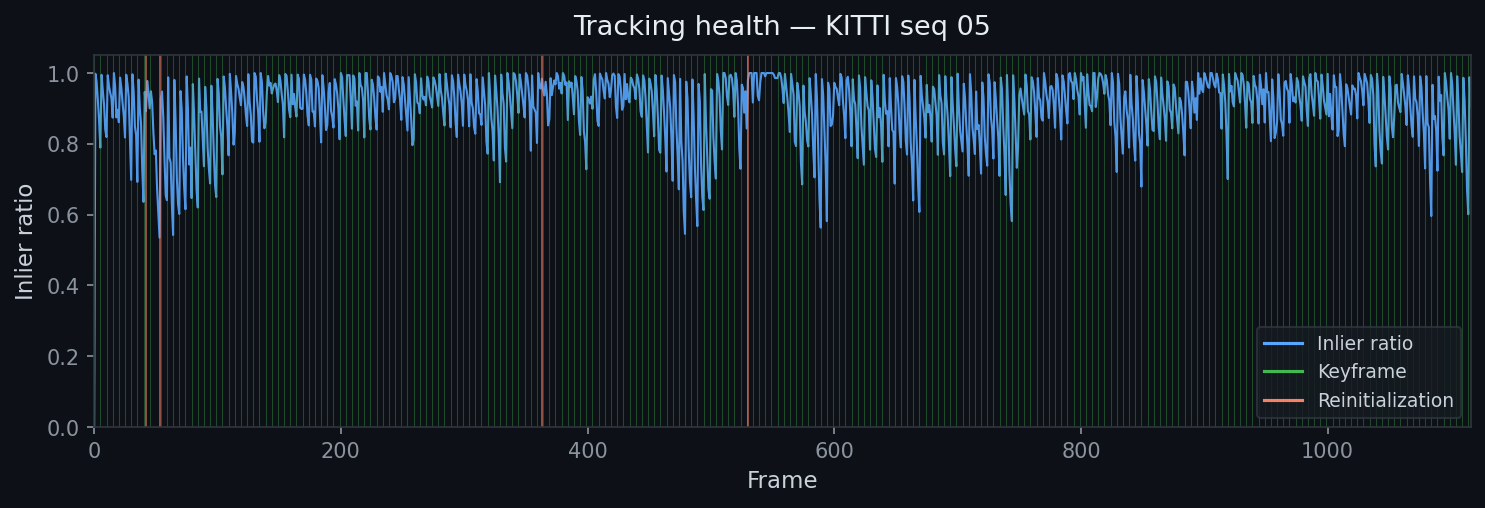
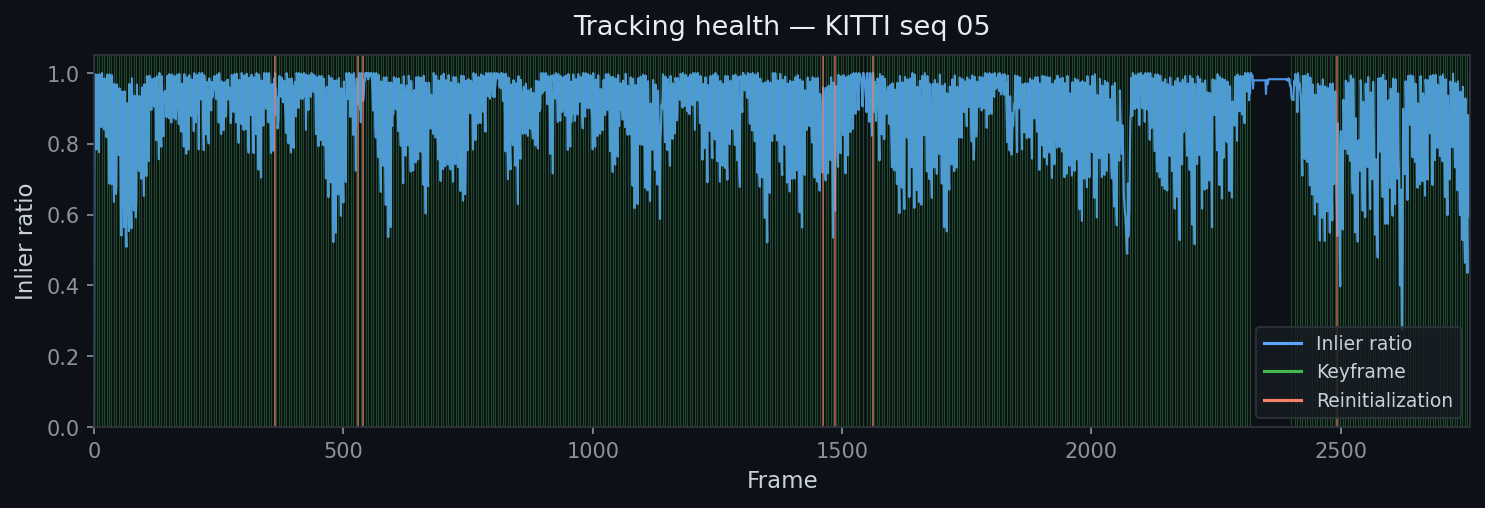
Update README: refresh assets, add metrics table, fix frame count and run commands

diff --git a/scripts/generate_vis.py b/scripts/generate_vis.py
@@ -148,7 +148,7 @@ def main():
     traj_path = Path(args.traj) if args.traj else repo_root / "results" / "traj" / f"{seq}.txt"
     gt_path = Path(args.kitti) / "poses" / f"{seq}.txt"
     debug_dir = repo_root / "results" / "debug"
-    stats_csv = debug_dir / f"{seq}_vo_stats.csv"
+    stats_csv = debug_dir / f"{traj_path.stem}_stats.csv"
     assets_dir = repo_root / "assets"
     assets_dir.mkdir(exist_ok=True)
 

diff --git a/README.md b/README.md
@@ -46,7 +46,14 @@ Each stage is a self-contained module (`include/svo/`, `src/`). The main loop in
 |:---:|:---:|
 | ![Tracking](assets/tracking.png) | ![Inlier ratio](assets/inlier_ratio.png) |
 
-Runs through all 1 117 frames of KITTI seq 05. Inlier ratio stays above 0.9 for the majority of the sequence. Trajectory follows ground truth with expected long-range drift — pure VO without loop closure or global optimization.
+Runs through all 2 761 frames of KITTI seq 05. Median inlier ratio 0.91. Trajectory follows ground truth with expected long-range drift — pure VO without loop closure or global optimization.
+
+**KITTI seq 05 — evo metrics (best run)**
+
+| Metric | RMSE | Mean | Median |
+|:---|---:|---:|---:|
+| APE (m) | 6.30 | 5.64 | 5.26 |
+| RPE (m/frame) | 0.111 | 0.053 | 0.030 |
 
 ---
 
@@ -64,14 +71,14 @@ bash scripts/bootstrap_ubuntu2404.sh
 # build
 cmake -S . -B build -G Ninja && cmake --build build -j
 
-# run (KITTI seq 05)
-./build/run_kitti data/kitti 05 results/traj/05_vo.txt
+# run (KITTI seq 05) — trajectory written to results/traj/05_<YYMMDD>[_<keyword>].txt
+./build/run_kitti data/kitti 05 [pose_keyword] [--save-debug]
 
 # evaluate APE / RPE — outputs plots to results/tables/05/
-scripts/eval_kitti.sh 05 results/traj/05_vo.txt
+scripts/eval_kitti.sh 05 results/traj/<output>.txt
 
 # regenerate README images
-source .venv/bin/activate && python3 scripts/generate_vis.py --seq 05 --traj results/traj/05_vo.txt
+source .venv/bin/activate && python3 scripts/generate_vis.py --seq 05 --traj results/traj/<output>.txt
 ```
 
 ---